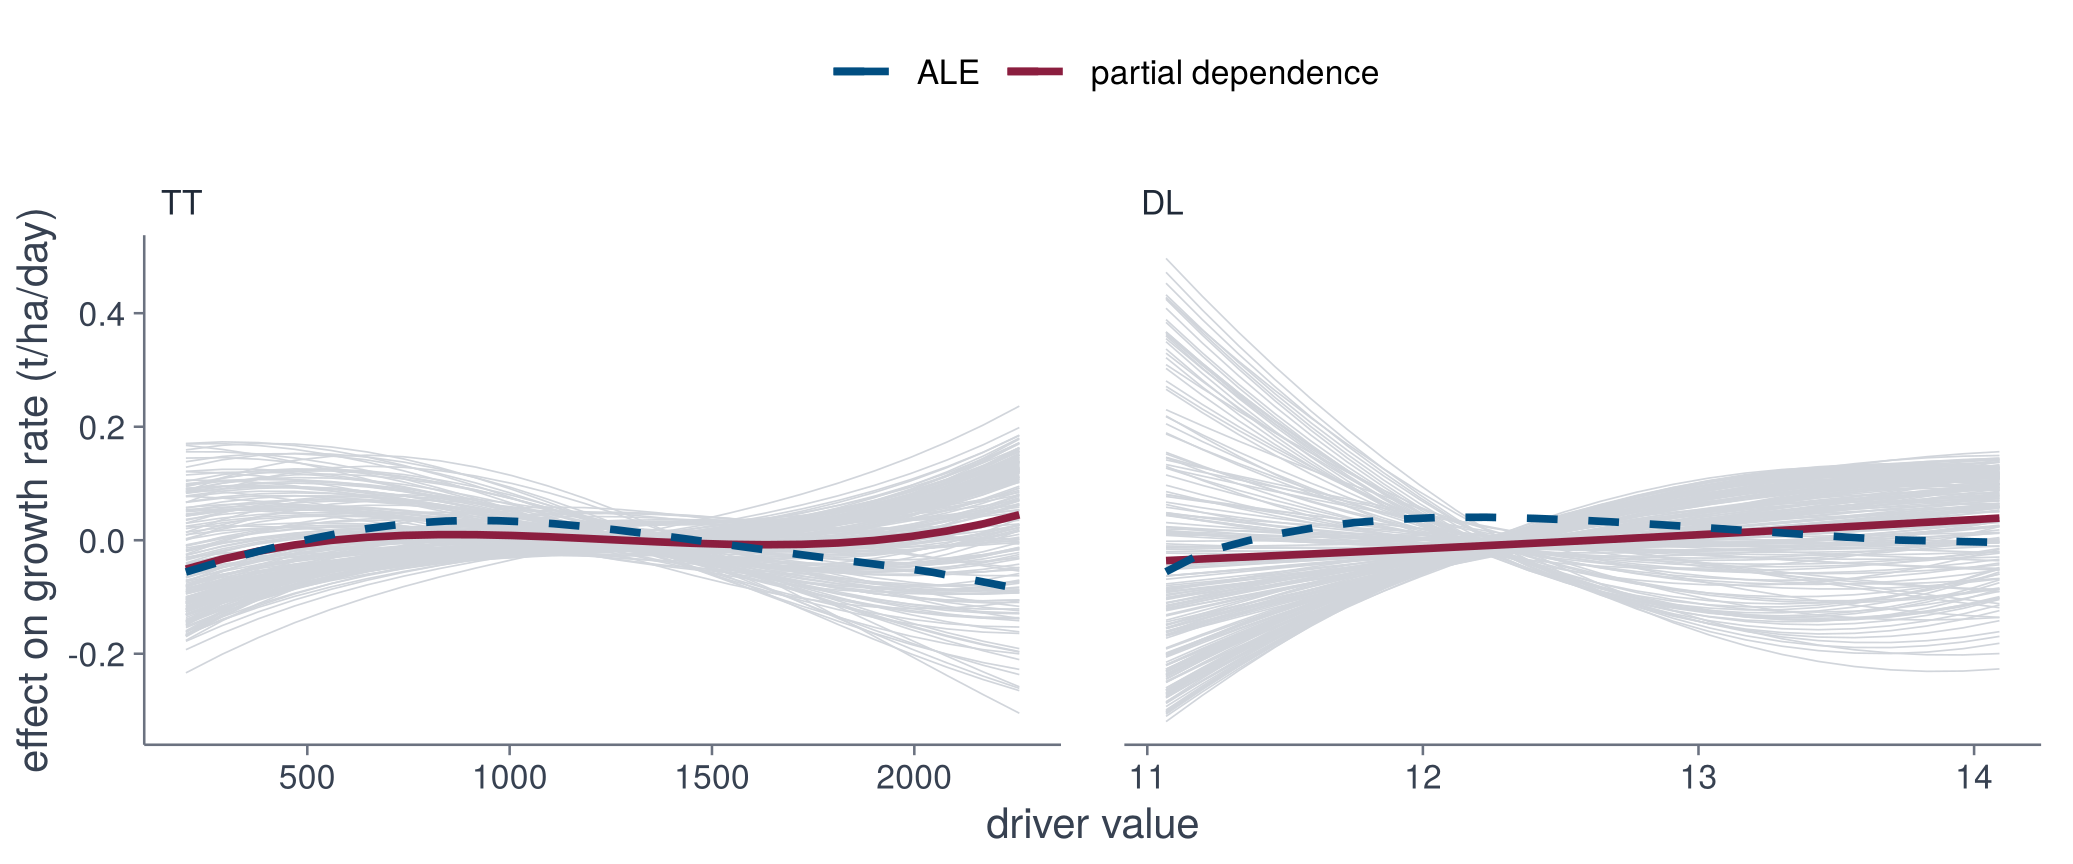
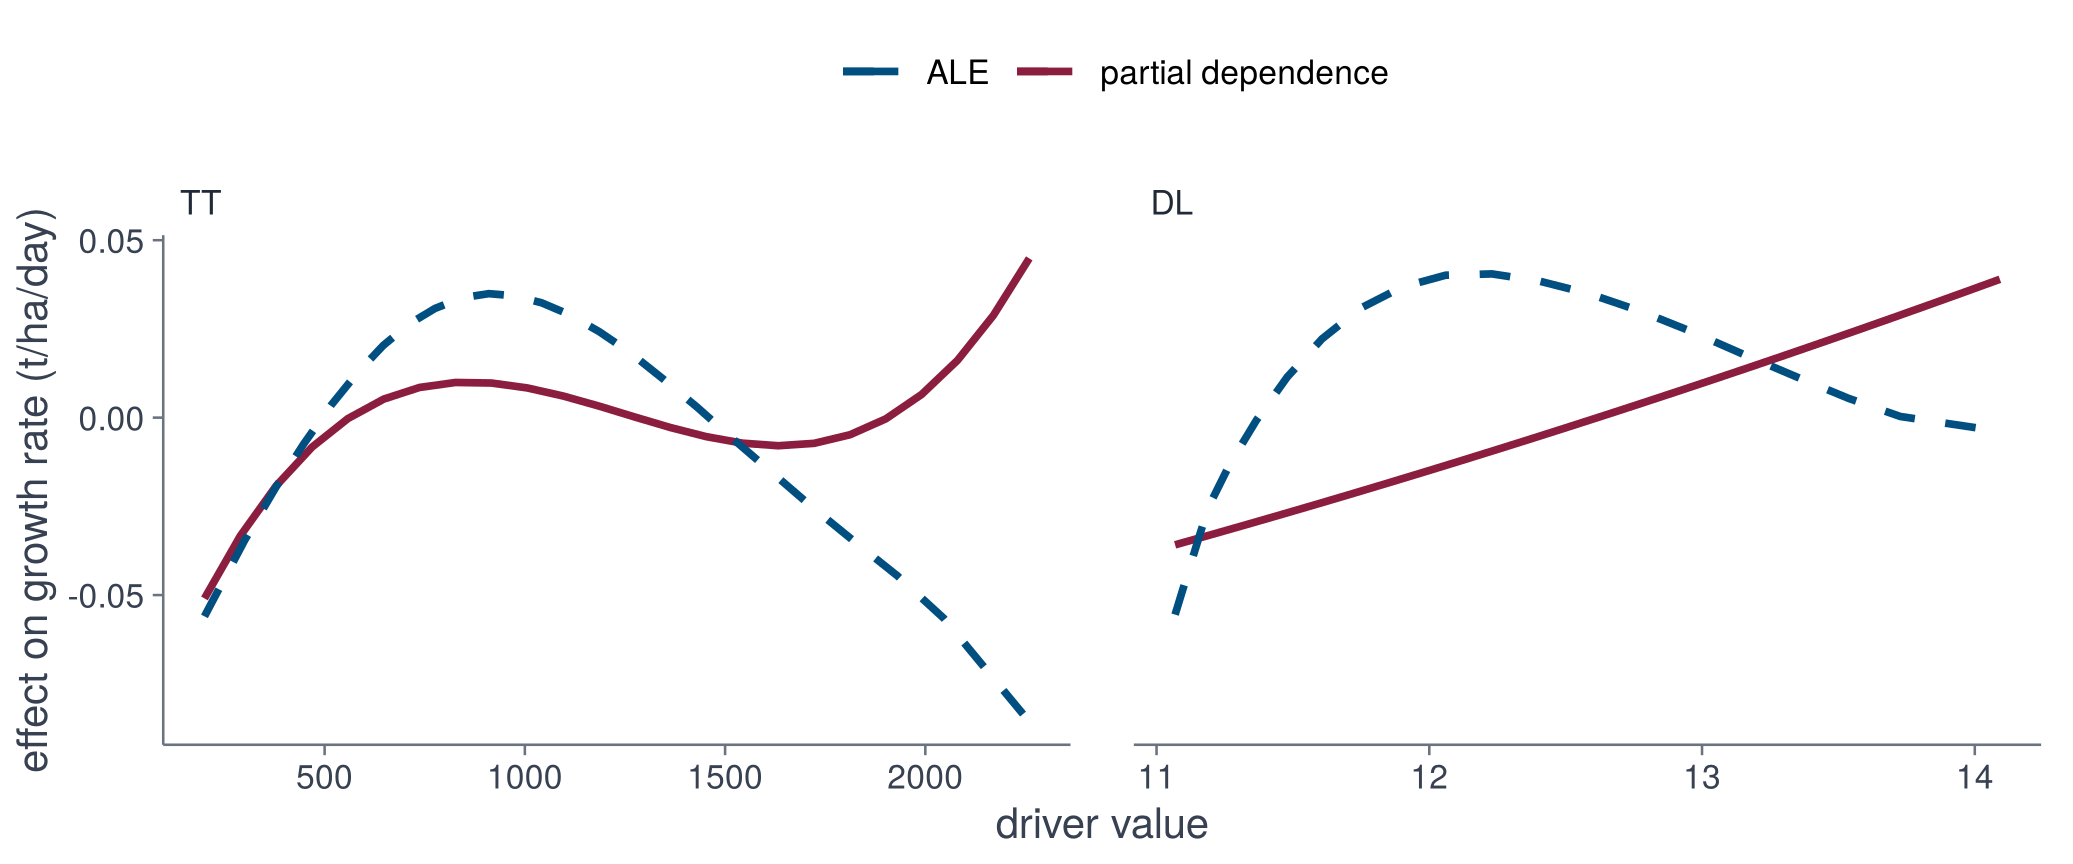
Interpretation page: drop ICE curves from the PDP vs ALE figure
Claude-Session: https://claude.ai/code/session_0114faQe6i711LJ6hN91p23Y

diff --git a/docs/06-reading.html b/docs/06-reading.html
@@ -238,7 +238,7 @@ pre > code.sourceCode > span > a:first-child::before { text-decoration: underlin
   <li><a href="#fitted-equations" id="toc-fitted-equations" class="nav-link active" data-scroll-target="#fitted-equations">Fitted equations</a></li>
   <li><a href="#growth-rate-over-the-season" id="toc-growth-rate-over-the-season" class="nav-link" data-scroll-target="#growth-rate-over-the-season">Growth rate over the season</a></li>
   <li><a href="#effect-of-a-single-driver" id="toc-effect-of-a-single-driver" class="nav-link" data-scroll-target="#effect-of-a-single-driver">Effect of a single driver</a></li>
-  <li><a href="#interactions-partial-dependence-and-ice" id="toc-interactions-partial-dependence-and-ice" class="nav-link" data-scroll-target="#interactions-partial-dependence-and-ice">Interactions, partial dependence and ICE</a></li>
+  <li><a href="#interactions-and-partial-dependence" id="toc-interactions-and-partial-dependence" class="nav-link" data-scroll-target="#interactions-and-partial-dependence">Interactions and partial dependence</a></li>
   </ul>
 <div class="toc-actions"><ul class="collapse"><li><a href="https://github.com/corne00/dynamic-gxe-workshop/blob/main/06-reading.qmd" class="toc-action"><i class="bi bi-github"></i>View source</a></li></ul></div></nav>
     </div>
@@ -407,9 +407,9 @@ RAD  0.72  0.74 -0.58  1.00</code></pre>
 </div>
 <p>The rug marks show where data exist. Thermal time is accumulated from sowing, so its curve describes the dependence of growth on the stage of the season, not a response to temperature. Thermal time and day length are correlated at 0.97 and are best read together.</p>
 </section>
-<section id="interactions-partial-dependence-and-ice" class="level2">
-<h2 class="anchored" data-anchor-id="interactions-partial-dependence-and-ice">Interactions, partial dependence and ICE</h2>
-<p>The 12-term library is additive in the drivers: the effect of one driver does not depend on the others, and ALE and partial dependence coincide. With products of drivers (36 terms, backward elimination to 20 terms) they differ. For <code>g114</code>, the grey lines are individual conditional expectation (ICE) curves, one for each of 200 sampled days: the growth rate of that day when only the driver is changed. Partial dependence is their average.</p>
+<section id="interactions-and-partial-dependence" class="level2">
+<h2 class="anchored" data-anchor-id="interactions-and-partial-dependence">Interactions and partial dependence</h2>
+<p>The 12-term library is additive in the drivers: the effect of one driver does not depend on the others, and ALE and partial dependence coincide. With products of drivers (36 terms, backward elimination to 20 terms) they differ. For <code>g114</code>, partial dependence averages the growth rate over all observed days while one driver is set to each value in turn.</p>
 <div class="cell">
 <div class="code-copy-outer-scaffold"><div class="sourceCode cell-code" id="cb9"><pre class="sourceCode r code-with-copy"><code class="sourceCode r"><span id="cb9-1"><a href="#cb9-1" aria-hidden="true" tabindex="-1"></a>Theta2 <span class="ot">&lt;-</span> <span class="fu">make_library</span>(drv, <span class="at">pairs =</span> <span class="cn">TRUE</span>)</span>
 <span id="cb9-2"><a href="#cb9-2" aria-hidden="true" tabindex="-1"></a>d2 <span class="ot">&lt;-</span> <span class="fu">make_design</span>(Theta2, tr, <span class="st">"g114"</span>)</span>
@@ -418,35 +418,31 @@ RAD  0.72  0.74 -0.58  1.00</code></pre>
 <span id="cb9-5"><a href="#cb9-5" aria-hidden="true" tabindex="-1"></a>effects <span class="ot">&lt;-</span> <span class="cf">function</span>(j) {</span>
 <span id="cb9-6"><a href="#cb9-6" aria-hidden="true" tabindex="-1"></a>  feature <span class="ot">&lt;-</span> drv<span class="sc">$</span>drivers[j]</span>
 <span id="cb9-7"><a href="#cb9-7" aria-hidden="true" tabindex="-1"></a>  ale <span class="ot">&lt;-</span> FeatureEffect<span class="sc">$</span><span class="fu">new</span>(pred2, feature, <span class="st">"ale"</span>, <span class="at">grid.size =</span> <span class="dv">24</span>)<span class="sc">$</span>results</span>
-<span id="cb9-8"><a href="#cb9-8" aria-hidden="true" tabindex="-1"></a>  pdp <span class="ot">&lt;-</span> FeatureEffect<span class="sc">$</span><span class="fu">new</span>(pred2, feature, <span class="st">"pdp+ice"</span>, <span class="at">grid.size =</span> <span class="dv">24</span>)<span class="sc">$</span>results</span>
+<span id="cb9-8"><a href="#cb9-8" aria-hidden="true" tabindex="-1"></a>  pdp <span class="ot">&lt;-</span> FeatureEffect<span class="sc">$</span><span class="fu">new</span>(pred2, feature, <span class="st">"pdp"</span>, <span class="at">grid.size =</span> <span class="dv">24</span>)<span class="sc">$</span>results</span>
 <span id="cb9-9"><a href="#cb9-9" aria-hidden="true" tabindex="-1"></a>  pdp<span class="sc">$</span>x <span class="ot">&lt;-</span> <span class="fu">natural</span>(pdp[[feature]], j)</span>
 <span id="cb9-10"><a href="#cb9-10" aria-hidden="true" tabindex="-1"></a>  pdp<span class="sc">$</span>driver <span class="ot">&lt;-</span> <span class="fu">factor</span>(feature, drv<span class="sc">$</span>drivers)</span>
-<span id="cb9-11"><a href="#cb9-11" aria-hidden="true" tabindex="-1"></a>  curve <span class="ot">&lt;-</span> <span class="fu">ifelse</span>(pdp<span class="sc">$</span>.type <span class="sc">==</span> <span class="st">"pdp"</span>, <span class="st">"pdp"</span>, pdp<span class="sc">$</span>.id)</span>
-<span id="cb9-12"><a href="#cb9-12" aria-hidden="true" tabindex="-1"></a>  pdp<span class="sc">$</span>.value <span class="ot">&lt;-</span> pdp<span class="sc">$</span>.value <span class="sc">-</span> <span class="fu">ave</span>(pdp<span class="sc">$</span>.value, curve, <span class="at">FUN =</span> mean)</span>
-<span id="cb9-13"><a href="#cb9-13" aria-hidden="true" tabindex="-1"></a>  ale<span class="sc">$</span>x <span class="ot">&lt;-</span> <span class="fu">natural</span>(ale[[feature]], j)</span>
-<span id="cb9-14"><a href="#cb9-14" aria-hidden="true" tabindex="-1"></a>  ale<span class="sc">$</span>driver <span class="ot">&lt;-</span> pdp<span class="sc">$</span>driver[<span class="dv">1</span>]</span>
-<span id="cb9-15"><a href="#cb9-15" aria-hidden="true" tabindex="-1"></a>  pdp[[feature]] <span class="ot">&lt;-</span> <span class="cn">NULL</span></span>
-<span id="cb9-16"><a href="#cb9-16" aria-hidden="true" tabindex="-1"></a>  ale[[feature]] <span class="ot">&lt;-</span> <span class="cn">NULL</span></span>
-<span id="cb9-17"><a href="#cb9-17" aria-hidden="true" tabindex="-1"></a>  <span class="fu">list</span>(<span class="at">ice =</span> pdp[pdp<span class="sc">$</span>.type <span class="sc">==</span> <span class="st">"ice"</span> <span class="sc">&amp;</span> pdp<span class="sc">$</span>.id <span class="sc">%in%</span> <span class="fu">sample</span>(<span class="dv">1</span><span class="sc">:</span><span class="fu">nrow</span>(Z), <span class="dv">200</span>), ],</span>
-<span id="cb9-18"><a href="#cb9-18" aria-hidden="true" tabindex="-1"></a>       <span class="at">pdp =</span> pdp[pdp<span class="sc">$</span>.type <span class="sc">==</span> <span class="st">"pdp"</span>, ], <span class="at">ale =</span> ale)</span>
-<span id="cb9-19"><a href="#cb9-19" aria-hidden="true" tabindex="-1"></a>}</span>
-<span id="cb9-20"><a href="#cb9-20" aria-hidden="true" tabindex="-1"></a><span class="fu">set.seed</span>(<span class="dv">1</span>)</span>
-<span id="cb9-21"><a href="#cb9-21" aria-hidden="true" tabindex="-1"></a>parts <span class="ot">&lt;-</span> <span class="fu">lapply</span>(<span class="dv">1</span><span class="sc">:</span><span class="dv">2</span>, effects)</span></code></pre></div><button title="Copy to Clipboard" class="code-copy-button"><i class="bi"></i></button></div>
+<span id="cb9-11"><a href="#cb9-11" aria-hidden="true" tabindex="-1"></a>  pdp<span class="sc">$</span>.value <span class="ot">&lt;-</span> pdp<span class="sc">$</span>.value <span class="sc">-</span> <span class="fu">mean</span>(pdp<span class="sc">$</span>.value)</span>
+<span id="cb9-12"><a href="#cb9-12" aria-hidden="true" tabindex="-1"></a>  ale<span class="sc">$</span>x <span class="ot">&lt;-</span> <span class="fu">natural</span>(ale[[feature]], j)</span>
+<span id="cb9-13"><a href="#cb9-13" aria-hidden="true" tabindex="-1"></a>  ale<span class="sc">$</span>driver <span class="ot">&lt;-</span> pdp<span class="sc">$</span>driver[<span class="dv">1</span>]</span>
+<span id="cb9-14"><a href="#cb9-14" aria-hidden="true" tabindex="-1"></a>  pdp[[feature]] <span class="ot">&lt;-</span> <span class="cn">NULL</span></span>
+<span id="cb9-15"><a href="#cb9-15" aria-hidden="true" tabindex="-1"></a>  ale[[feature]] <span class="ot">&lt;-</span> <span class="cn">NULL</span></span>
+<span id="cb9-16"><a href="#cb9-16" aria-hidden="true" tabindex="-1"></a>  <span class="fu">list</span>(<span class="at">pdp =</span> pdp, <span class="at">ale =</span> ale)</span>
+<span id="cb9-17"><a href="#cb9-17" aria-hidden="true" tabindex="-1"></a>}</span>
+<span id="cb9-18"><a href="#cb9-18" aria-hidden="true" tabindex="-1"></a>parts <span class="ot">&lt;-</span> <span class="fu">lapply</span>(<span class="dv">1</span><span class="sc">:</span><span class="dv">2</span>, effects)</span></code></pre></div><button title="Copy to Clipboard" class="code-copy-button"><i class="bi"></i></button></div>
 </div>
 <div class="cell">
 <div class="code-copy-outer-scaffold"><div class="sourceCode cell-code" id="cb10"><pre class="sourceCode r code-with-copy"><code class="sourceCode r"><span id="cb10-1"><a href="#cb10-1" aria-hidden="true" tabindex="-1"></a>bind <span class="ot">&lt;-</span> <span class="cf">function</span>(name) <span class="fu">do.call</span>(rbind, <span class="fu">lapply</span>(parts, <span class="st">`</span><span class="at">[[</span><span class="st">`</span>, name))</span>
-<span id="cb10-2"><a href="#cb10-2" aria-hidden="true" tabindex="-1"></a>ice <span class="ot">&lt;-</span> <span class="fu">bind</span>(<span class="st">"ice"</span>); pdp <span class="ot">&lt;-</span> <span class="fu">bind</span>(<span class="st">"pdp"</span>); ale <span class="ot">&lt;-</span> <span class="fu">bind</span>(<span class="st">"ale"</span>)</span>
+<span id="cb10-2"><a href="#cb10-2" aria-hidden="true" tabindex="-1"></a>pdp <span class="ot">&lt;-</span> <span class="fu">bind</span>(<span class="st">"pdp"</span>); ale <span class="ot">&lt;-</span> <span class="fu">bind</span>(<span class="st">"ale"</span>)</span>
 <span id="cb10-3"><a href="#cb10-3" aria-hidden="true" tabindex="-1"></a></span>
-<span id="cb10-4"><a href="#cb10-4" aria-hidden="true" tabindex="-1"></a><span class="fu">ggplot</span>(ice, <span class="fu">aes</span>(x, .value)) <span class="sc">+</span></span>
-<span id="cb10-5"><a href="#cb10-5" aria-hidden="true" tabindex="-1"></a>  <span class="fu">geom_line</span>(<span class="fu">aes</span>(<span class="at">group =</span> .id), <span class="at">colour =</span> <span class="st">"#D1D5DB"</span>, <span class="at">linewidth =</span> <span class="fl">0.2</span>) <span class="sc">+</span></span>
-<span id="cb10-6"><a href="#cb10-6" aria-hidden="true" tabindex="-1"></a>  <span class="fu">geom_line</span>(<span class="at">data =</span> pdp, <span class="fu">aes</span>(<span class="at">colour =</span> <span class="st">"partial dependence"</span>), <span class="at">linewidth =</span> <span class="fl">0.9</span>) <span class="sc">+</span></span>
-<span id="cb10-7"><a href="#cb10-7" aria-hidden="true" tabindex="-1"></a>  <span class="fu">geom_line</span>(<span class="at">data =</span> ale, <span class="fu">aes</span>(<span class="at">y =</span> .value, <span class="at">colour =</span> <span class="st">"ALE"</span>), <span class="at">linewidth =</span> <span class="fl">0.9</span>,</span>
-<span id="cb10-8"><a href="#cb10-8" aria-hidden="true" tabindex="-1"></a>            <span class="at">linetype =</span> <span class="dv">2</span>) <span class="sc">+</span></span>
-<span id="cb10-9"><a href="#cb10-9" aria-hidden="true" tabindex="-1"></a>  <span class="fu">facet_wrap</span>(<span class="sc">~</span>driver, <span class="at">scales =</span> <span class="st">"free_x"</span>) <span class="sc">+</span></span>
-<span id="cb10-10"><a href="#cb10-10" aria-hidden="true" tabindex="-1"></a>  <span class="fu">scale_colour_dgxe</span>(<span class="st">"blue"</span>, <span class="st">"burgundy"</span>) <span class="sc">+</span></span>
-<span id="cb10-11"><a href="#cb10-11" aria-hidden="true" tabindex="-1"></a>  <span class="fu">labs</span>(<span class="at">x =</span> <span class="st">"driver value"</span>, <span class="at">y =</span> <span class="st">"effect on growth rate (t/ha/day)"</span>) <span class="sc">+</span></span>
-<span id="cb10-12"><a href="#cb10-12" aria-hidden="true" tabindex="-1"></a>  <span class="fu">theme_dgxe</span>() <span class="sc">+</span></span>
-<span id="cb10-13"><a href="#cb10-13" aria-hidden="true" tabindex="-1"></a>  <span class="fu">legend_top</span>()</span></code></pre></div><button title="Copy to Clipboard" class="code-copy-button"><i class="bi"></i></button></div>
+<span id="cb10-4"><a href="#cb10-4" aria-hidden="true" tabindex="-1"></a><span class="fu">ggplot</span>(pdp, <span class="fu">aes</span>(x, .value)) <span class="sc">+</span></span>
+<span id="cb10-5"><a href="#cb10-5" aria-hidden="true" tabindex="-1"></a>  <span class="fu">geom_line</span>(<span class="fu">aes</span>(<span class="at">colour =</span> <span class="st">"partial dependence"</span>), <span class="at">linewidth =</span> <span class="fl">0.9</span>) <span class="sc">+</span></span>
+<span id="cb10-6"><a href="#cb10-6" aria-hidden="true" tabindex="-1"></a>  <span class="fu">geom_line</span>(<span class="at">data =</span> ale, <span class="fu">aes</span>(<span class="at">y =</span> .value, <span class="at">colour =</span> <span class="st">"ALE"</span>), <span class="at">linewidth =</span> <span class="fl">0.9</span>,</span>
+<span id="cb10-7"><a href="#cb10-7" aria-hidden="true" tabindex="-1"></a>            <span class="at">linetype =</span> <span class="dv">2</span>) <span class="sc">+</span></span>
+<span id="cb10-8"><a href="#cb10-8" aria-hidden="true" tabindex="-1"></a>  <span class="fu">facet_wrap</span>(<span class="sc">~</span>driver, <span class="at">scales =</span> <span class="st">"free_x"</span>) <span class="sc">+</span></span>
+<span id="cb10-9"><a href="#cb10-9" aria-hidden="true" tabindex="-1"></a>  <span class="fu">scale_colour_dgxe</span>(<span class="st">"blue"</span>, <span class="st">"burgundy"</span>) <span class="sc">+</span></span>
+<span id="cb10-10"><a href="#cb10-10" aria-hidden="true" tabindex="-1"></a>  <span class="fu">labs</span>(<span class="at">x =</span> <span class="st">"driver value"</span>, <span class="at">y =</span> <span class="st">"effect on growth rate (t/ha/day)"</span>) <span class="sc">+</span></span>
+<span id="cb10-11"><a href="#cb10-11" aria-hidden="true" tabindex="-1"></a>  <span class="fu">theme_dgxe</span>() <span class="sc">+</span></span>
+<span id="cb10-12"><a href="#cb10-12" aria-hidden="true" tabindex="-1"></a>  <span class="fu">legend_top</span>()</span></code></pre></div><button title="Copy to Clipboard" class="code-copy-button"><i class="bi"></i></button></div>
 <div class="cell-output-display">
 <div>
 <figure class="figure">
@@ -455,7 +451,7 @@ RAD  0.72  0.74 -0.58  1.00</code></pre>
 </div>
 </div>
 </div>
-<p>The ICE curves are not parallel, which is the interaction. Partial dependence also evaluates the model at combinations of drivers that do not occur in the data, for example a short day late in a season with high thermal time, whereas ALE does not.</p>
+<p>The two curves differ because of the interactions. Partial dependence also evaluates the model at combinations of drivers that do not occur in the data, for example a short day late in a season with high thermal time, whereas ALE does not.</p>
 
 
 </section>
